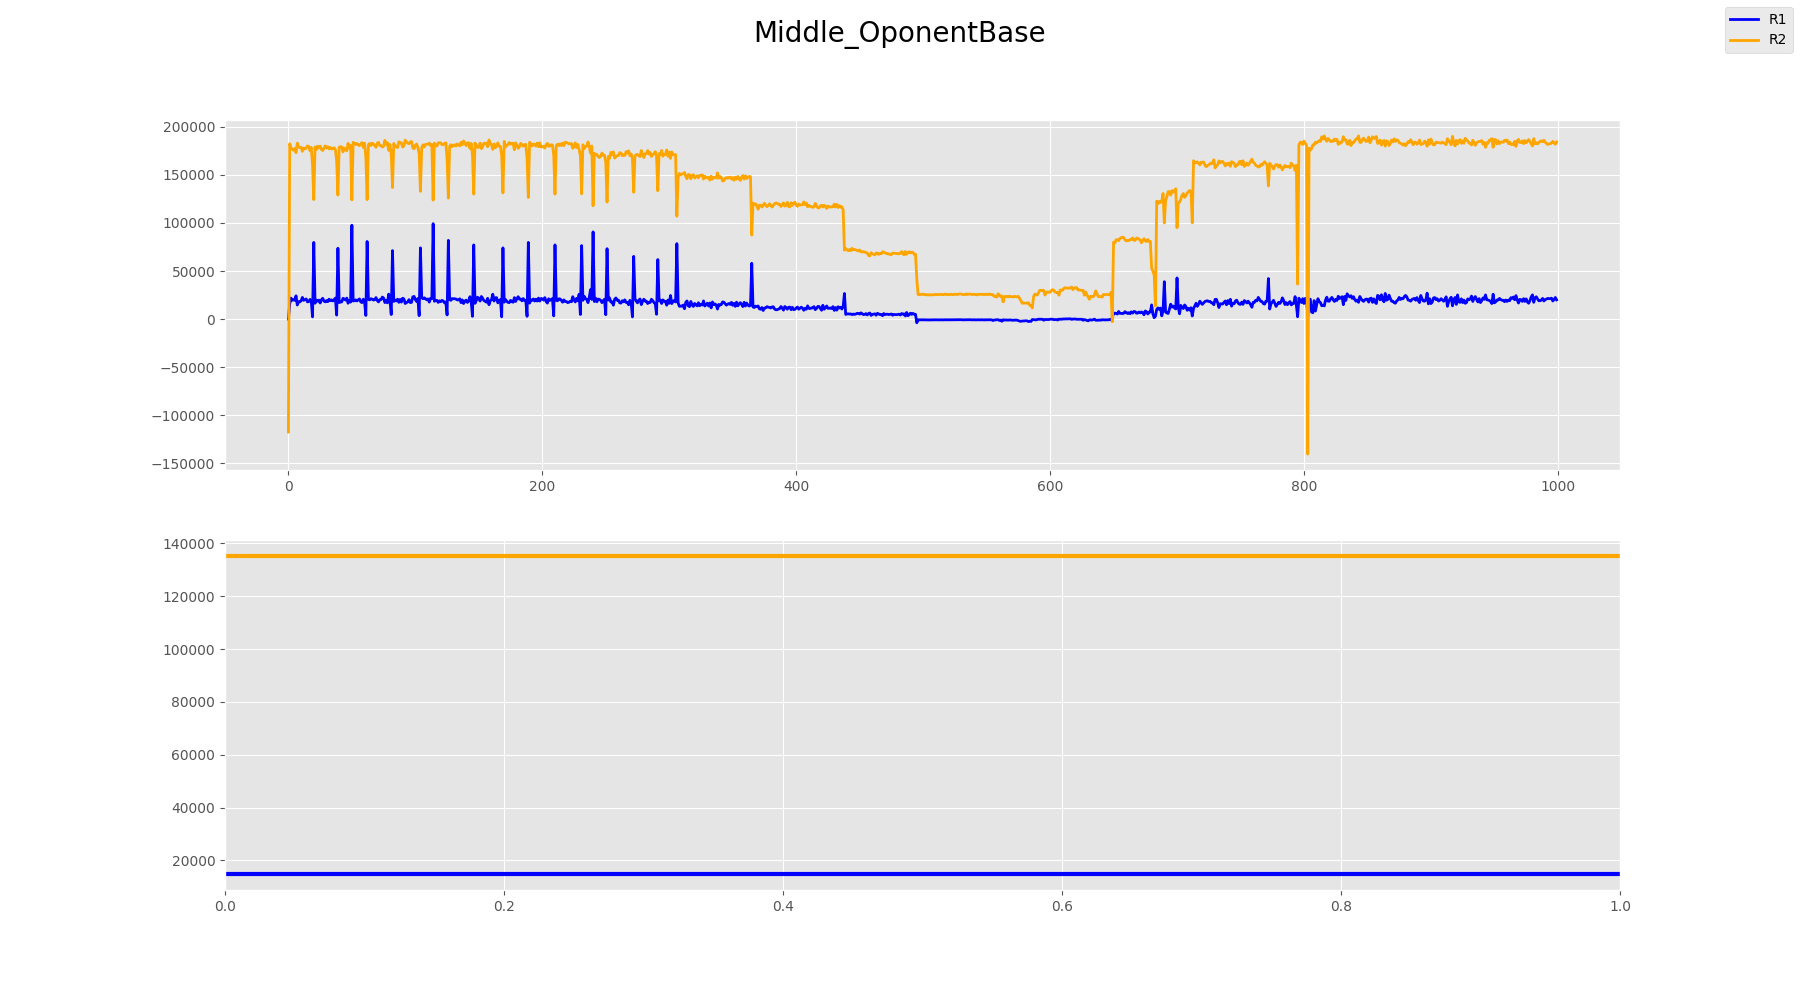
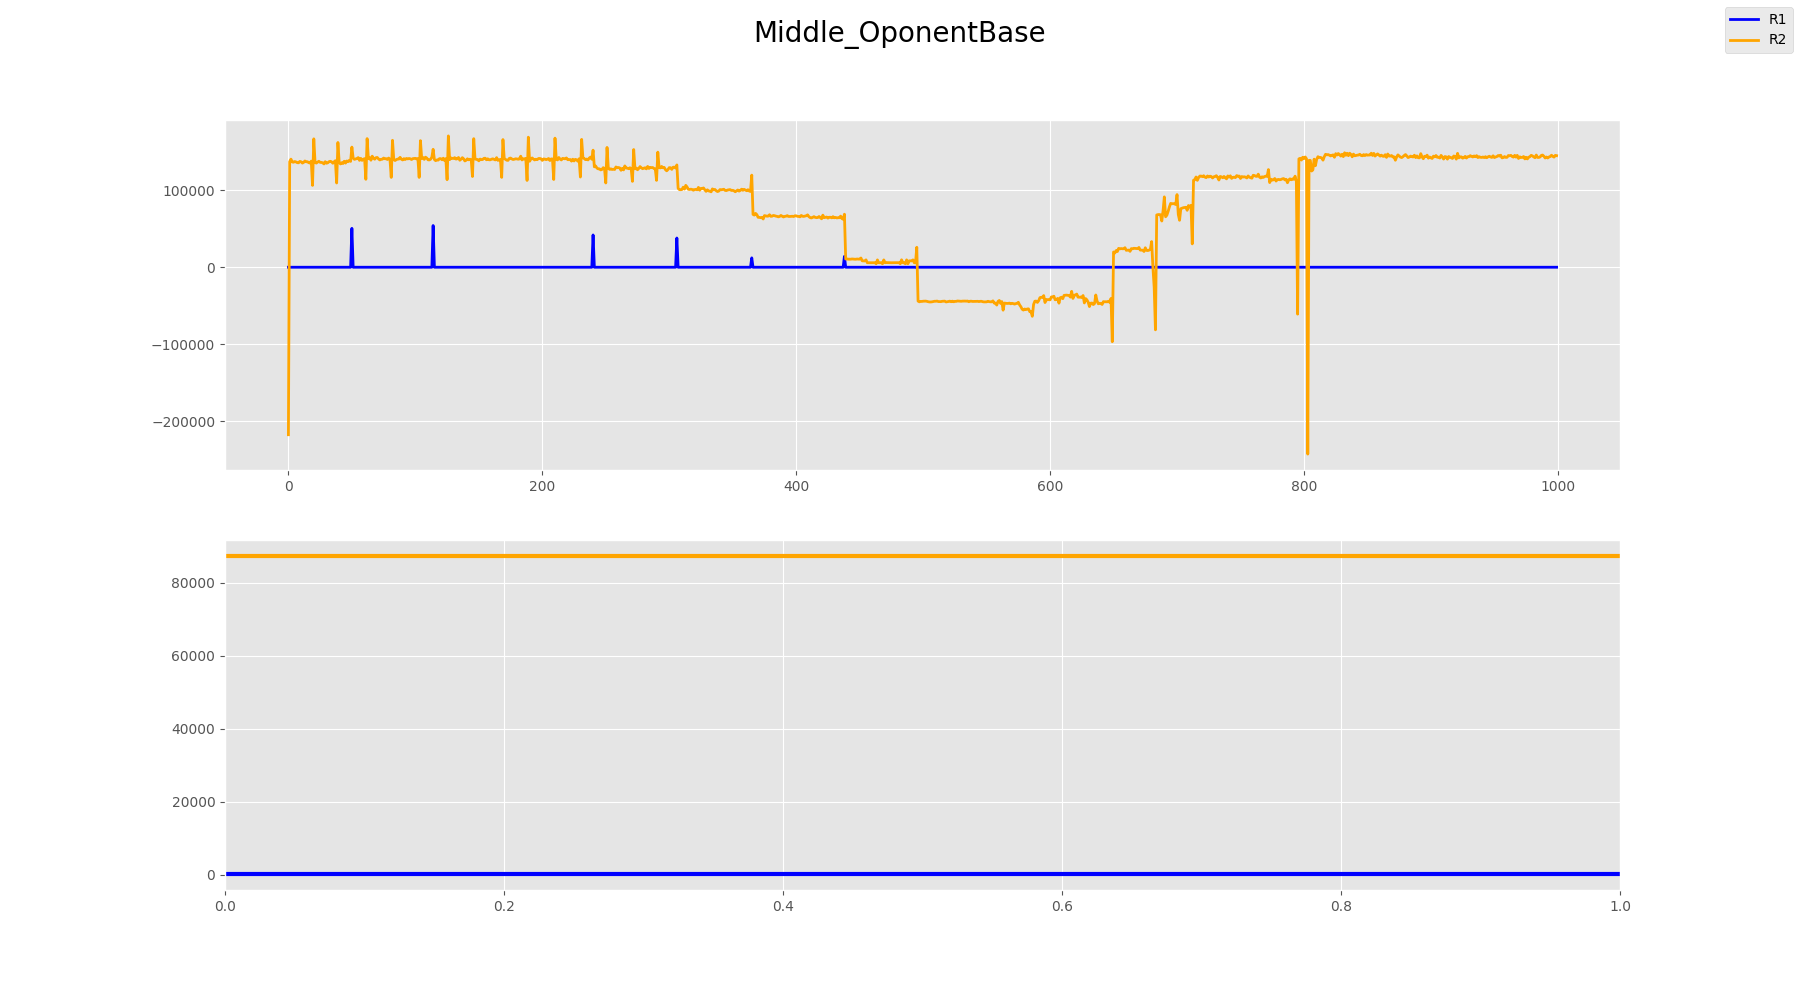
0716

diff --git a/p3/colosseum.py b/p3/colosseum.py
@@ -29,7 +29,55 @@ def Random(**data):
 
 
 def OponentBase(**data):
-    return data["oplast"][0] - 0.1
+    rate = data["currate"]
+    m = data["oplast"][0] + 0.1
+    m = min(m, rate + 2)
+    m = max(m, rate)
+    return m
+
+
+def Chen1(**data):
+    hist = [x.a0 for x in data["hist"]]
+    rate = data["currate"]
+    m = np.mean(hist)
+    m = min(m, rate + 2)
+    m = max(m, rate)
+    return m
+
+
+def Chen2(**data):
+    hist = [x.a0 for x in data["hist"]]
+    rate = data["currate"]
+    m = np.sum(hist) * 0.5
+    m = min(m, rate + 2)
+    m = max(m, rate)
+    return m
+
+
+def Chen3(**data):
+    rate = data["currate"]
+    hist = data["hist"][-1]
+    m = (hist.a0 + hist.a1) / 2
+    m = min(m, rate + 2)
+    m = max(m, rate)
+    return m
+
+
+def Chen4(**data):
+    hist = data["hist"]
+    ft = np.mean([x.a0 for x in hist[:-2]])
+    at = hist[-1].a0
+    # print(ft, at)
+    # exit()
+    return ft + 0.1 * (at - ft)
+
+
+def Chen5(**data):
+    return Chen1(**data) + .2
+
+
+def Chen6(**data):
+    return Chen3(**data) + .2
 
 
 def OneOneContest(ma, mb, show):
@@ -38,17 +86,18 @@ def OneOneContest(ma, mb, show):
     for i in range(1000):
         lasthist = hist[-1]
         a0 = ma(currate=rates[i], oplast=[
-                lasthist.a1, lasthist.copy1, lasthist.rev1])
+                lasthist.a1, lasthist.copy1, lasthist.rev1], hist=list(hist))
         a1 = mb(currate=rates[i], oplast=[
-                lasthist.a0, lasthist.copy0, lasthist.rev0])
+                lasthist.a0, lasthist.copy0, lasthist.rev0], hist=list(hist))
         hist.append(dc.Rev(i, a0, a1))
-
     return dc.Result(hist, "_".join([ma.__name__, mb.__name__]), show=show)
 
 
 battleList = []
-# battleList = [Middle, Max, Min, Random]
-battleList = battleList + [Middle, OponentBase]
+battleList = [Chen1, Chen2, Chen3, Chen4, Chen5, Middle]
+# battleList = [Middle, Chen3]
+# battleList = [Middle, Random]
+# battleList = battleList + [OponentBase]
 battleList = list(set(battleList))
 
 # txt = [["c", 1], ["b", 2]]
@@ -62,16 +111,16 @@ def NNContest():
     maxLength = max(
         map(lambda x: len(x), [x.__name__ for x in battleList])) + 2
     for x in combinations(battleList, 2):
-        contest_result = OneOneContest(*x, show=len(battleList) == 2)
+        contest_result = OneOneContest(*x, show=False)
         if contest_result:
             result[x[0]] += 1
         else:
             result[x[1]] += 1
         # show process
         win = int(contest_result)
-        txt = [[x[0].__name__, win], [x[1].__name__], 1 - win]
-        print(txt)
-        print(sorted(txt, key=lambda s: s[0]))
+        # txt = [[x[0].__name__, win], [x[1].__name__], 1 - win]
+        # print(txt)
+        # print(sorted(txt, key=lambda s: s[0]))
         print(
             f"{x[0].__name__:<{maxLength}} vs {x[1].__name__:>{maxLength}}" + f"  --  {win}: {1-win}")
 

diff --git a/p3/DataCenter.py b/p3/DataCenter.py
@@ -81,11 +81,11 @@ def Rev(h, a0, a1, change=True):
             select = 2
         elif d1 >= threshold and d2 < threshold:
             select = 1
-        elif (d1 - T * abs(cstates[group] - setting.c1place) > d2 - T * abs(cstates[group] - setting.c2place)):
+        elif (d1 - T * abs(setting.cstates[group] - setting.c1place) > d2 - T * abs(setting.cstates[group] - setting.c2place)):
             select = 1
-        elif (d1 - T * abs(cstates[group] - setting.c1place) < d2 - T * abs(cstates[group] - setting.c2place)):
+        elif (d1 - T * abs(setting.cstates[group] - setting.c1place) < d2 - T * abs(setting.cstates[group] - setting.c2place)):
             select = 2
-        elif (d1 - T * abs(cstates[group] - setting.c1place) == d2 - T * abs(cstates[group] - setting.c2place)):
+        elif (d1 - T * abs(setting.cstates[group] - setting.c1place) == d2 - T * abs(setting.cstates[group] - setting.c2place)):
             select = randomer.integers(1, 3)
 
         if select == 1:
@@ -97,12 +97,13 @@ def Rev(h, a0, a1, change=True):
     if change:
         for i, x in enumerate(amount):
             if x > 0:
-                cstates[i] -= .1
+                setting.cstates[i] -= .1
             if x < 0:
-                cstates[i] += .1
+                setting.cstates[i] += .1
     S = namedtuple("h", "a0,a1,copy0,copy1,rev0,rev1")
     sd = [a0, a1, ctr1, ctr2, int(ctr1 * 50000 * (setting.II + ii_func(a2, *iip) - a0) / 100),
           int(ctr2 * 50000 * (setting.II + ii_func(a2, *iip) - a1) / 100)]
+    setting.cstates = [.5] * 3
     return S._make(sd)
 
 
@@ -120,14 +121,16 @@ def Result(hist, name, show):
     hist = np.array(hist)
     if SAVEFIG or show:
         plt.style.use('ggplot')
-        fig, ax = plt.subplots(2, 1)
+        fig, ax = plt.subplots(3, 1)
         ax[0].plot(range(1000), hist[:, 4][5:], label="R1", color="blue", lw=2)
         ax[0].plot(range(1000), hist[:, 5][5:],
                    label="R2", color="orange", lw=2)
         ax[1].axhline(np.mean(hist[:, 4][5:]), color="blue", lw=3)
         ax[1].axhline(np.mean(hist[:, 5][5:]), color="orange", lw=3)
+        ax[2].plot(range(1000), hist[:, 0][5:], color="blue")
+        ax[2].plot(range(1000), hist[:, 1][5:], color="orange")
         fig.legend()
-        fig.set_size_inches(18, 10)
+        # fig.set_size_inches(18, 10)
         fig.suptitle(name, size=20)
         fig.savefig("p3/pct/" + name)
     if show:
@@ -138,5 +141,5 @@ def Result(hist, name, show):
 setting.c1place = 0
 setting.c2place = 1
 setting.II = 2.5
-cstates = [.5] * 3
+setting.cstates = [.5] * 3
 rates = Rate_Create()
